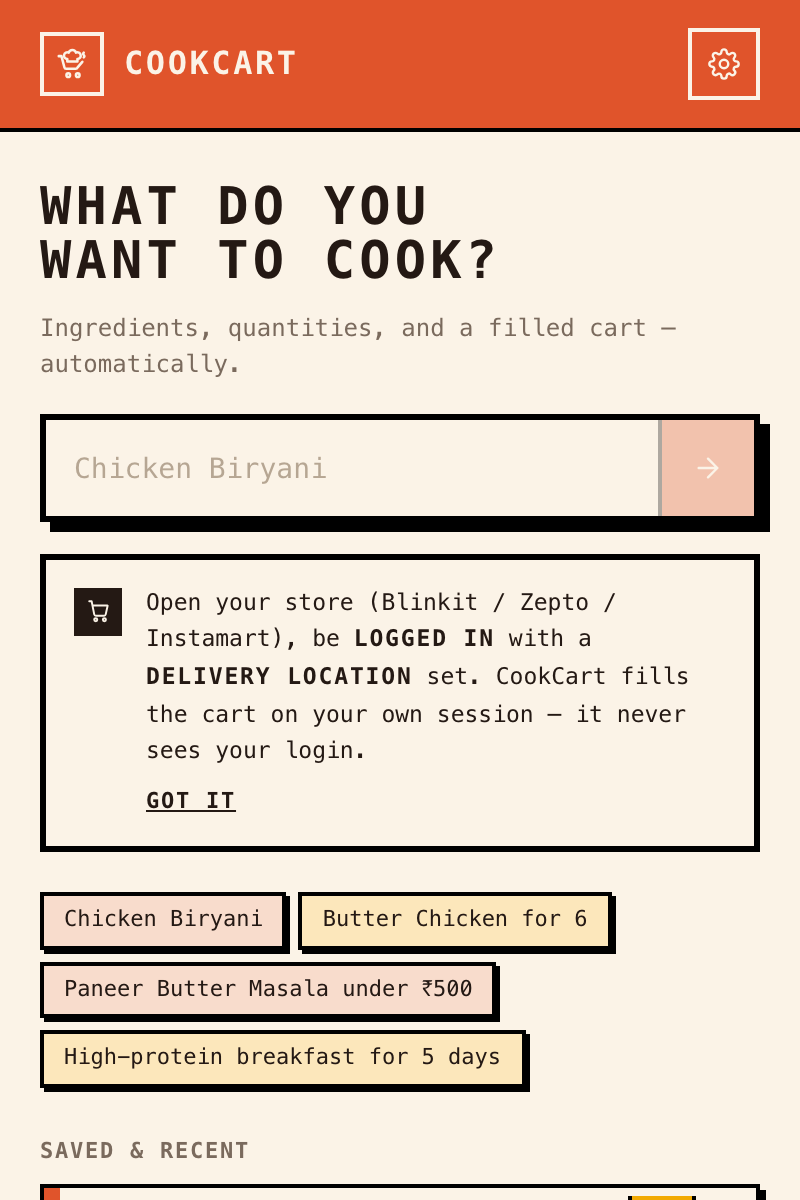
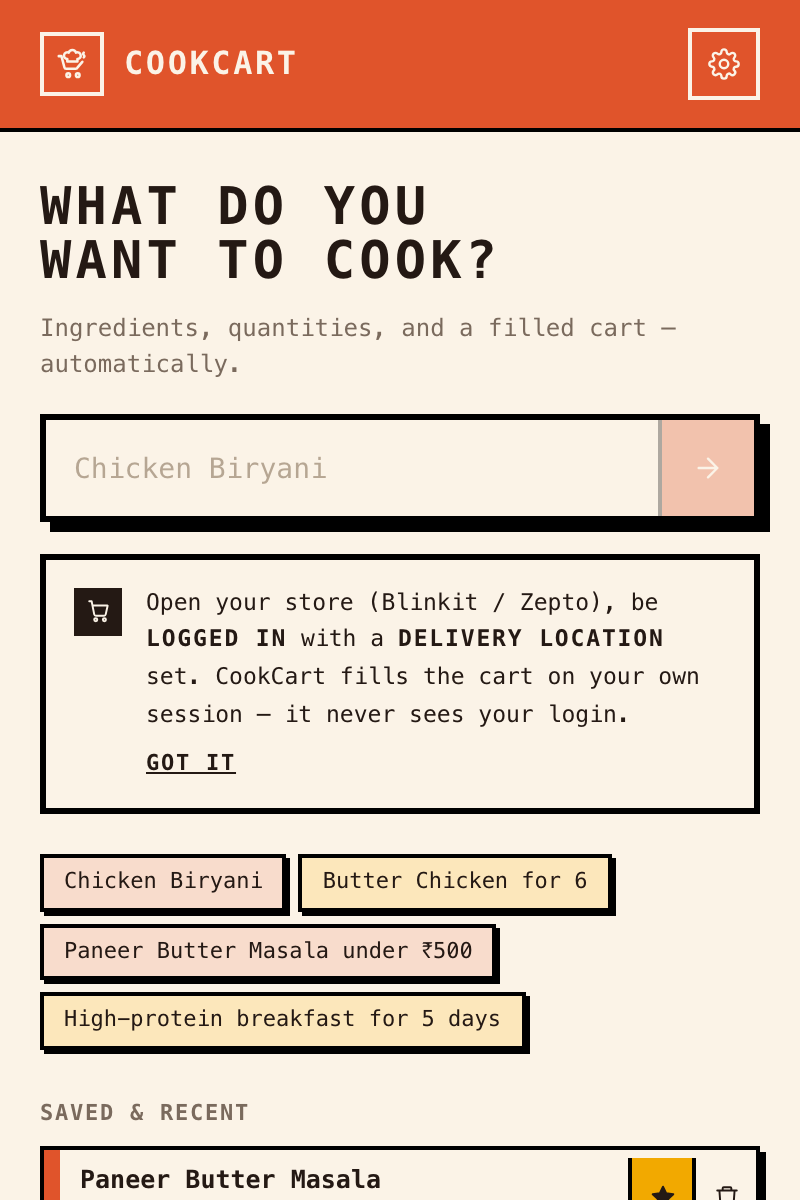
fix: remove Instamart, correctness bugs, UI/UX polish (multi-agent audit)
Ran a 3-agent audit (consistency, correctness, UI/UX). Fixes:

Instamart — fully removed (was wired everywhere but never user-selectable):
ProviderId, PROVIDERS, PROVIDER_URLS, adapter + registry, brand/overlay logo
maps, manifest content_scripts + swiggy host_permission, prompt, package/manifest
description, README table/roadmap/trademark, LICENSE. tsc confirms completeness.

Correctness:
- H1 (wrong product): sold-out filter shifted array positions after the ranker
  assigned cardIndex, so the fast fill could add the wrong item. Extracted
  dropSoldOut() (re-indexes after filtering) + unit test.
- M2 (under-buy): fast fill now uses the ranking engine's unitsToAdd (handles
  eggs/multipacks/count↔mass) instead of a weaker local calc.
- M3: timed-out fast fill is now aborted so it can't write the cart after the
  job fell back to DOM.
- M4: the fast dispatch is now actually gated (no duplicate whole-cart write).
- L10: guard capitalization against empty tokens.

UI/UX:
- removed dead/broken .shimmer; unified the two Zepto purples to #9b5de5
- keyboard focus rings on button primitives
- no-key: submitting/tapping a suggestion routes to Settings instead of erroring
- servings + quantity steppers disable at their bounds
- Progress: 'Plan another dish' → Home; truncate long dish; stable list keys
- budget slider aria-label/valuetext; favorite aria-pressed; empty-list hint

Also fixed the false README claim that the ~1s Blinkit path is verified against
[…]

Changed region(s): [[0.0312, 0.4933, 0.9688, 1.0]]

diff --git a/src/shared/blinkit/parseSearch.test.ts b/src/shared/blinkit/parseSearch.test.ts
@@ -1,0 +1,37 @@
+import { describe, expect, it } from 'vitest'
+import { dropSoldOut, type BlinkitApiProduct } from './parseSearch'
+
+function product(name: string, id: number, soldOut: boolean, cardIndex: number): BlinkitApiProduct {
+  return {
+    name,
+    soldOut,
+    cartItem: { product_id: id, price: 10 },
+    scraped: { name, packText: '', priceInr: 10, cardIndex },
+  }
+}
+
+describe('dropSoldOut', () => {
+  it('keeps cardIndex aligned to array position after removing sold-out items', () => {
+    // A(sold-out), B, C — as returned by parseBlinkitSearch with dense indices.
+    const parsed = [
+      product('A', 1, true, 0),
+      product('B', 2, false, 1),
+      product('C', 3, false, 2),
+    ]
+    const kept = dropSoldOut(parsed)
+
+    expect(kept.map((p) => p.name)).toEqual(['B', 'C'])
+    // Ranking a product then indexing kept[cardIndex] must return that product.
+    kept.forEach((p, i) => {
+      expect(p.scraped.cardIndex).toBe(i)
+      expect(kept[p.scraped.cardIndex]).toBe(p)
+    })
+    // The pick that used to be wrong: choosing "B" (old index 1) must not yield C.
+    const b = kept.find((p) => p.name === 'B')!
+    expect(kept[b.scraped.cardIndex].cartItem.product_id).toBe(2)
+  })
+
+  it('returns an empty array when everything is sold out', () => {
+    expect(dropSoldOut([product('A', 1, true, 0), product('B', 2, true, 1)])).toEqual([])
+  })
+})

diff --git a/src/content/providers/blinkitFast.ts b/src/content/providers/blinkitFast.ts
@@ -1,7 +1,7 @@
 import { chooseBest } from '@/shared/matching'
 import type { Ingredient } from '@/shared/types'
-import { toBase } from '@/shared/units'
 import {
+  dropSoldOut,
   parseBlinkitSearch,
   type BlinkitApiProduct,
   type BlinkitCartItem,
@@ -99,19 +99,7 @@ async function searchProducts(
     return searchProducts(query, headers, attempt + 1)
   }
   if (!res.ok) return []
-  return parseBlinkitSearch(await res.json().catch(() => null)).filter((p) => !p.soldOut)
-}
-
-/** How many packs of the chosen product to cover the recipe quantity. */
-function unitsFor(ingredient: Ingredient, product: BlinkitApiProduct): number {
-  const pack = product.cartItem.unit
-  const packMatch = pack ? /(\d+(?:\.\d+)?)\s*(kg|g|ml|l)\b/i.exec(pack) : null
-  if (!packMatch) return 1
-  const packBase =
-    Number(packMatch[1]) * (/kg|l/i.test(packMatch[2]) ? 1000 : 1)
-  const need = toBase(ingredient.quantity, ingredient.unit)
-  if (need.dimension === 'count' || packBase <= 0) return 1
-  return Math.min(5, Math.max(1, Math.ceil(need.value / packBase)))
+  return dropSoldOut(parseBlinkitSearch(await res.json().catch(() => null)))
 }
 
 export interface FastItem {
@@ -164,7 +152,10 @@ async function chooseAll(items: FastItem[]): Promise<Chosen[]> {
         continue
       }
       const product = products[best.cardIndex]
-      const quantity = unitsFor(ingredient, product)
+      // Use the shared ranking engine's pack math (handles count items like
+      // eggs, multipacks, and count↔mass) so fast (Blinkit) and DOM (Zepto)
+      // fills buy the same quantity for the same recipe.
+      const quantity = Math.max(1, best.unitsToAdd)
       out[index] = {
         quantity,
         cartItem: product.cartItem,
@@ -252,9 +243,16 @@ function writeCart(chosen: Chosen[]): void {
 /**
  * Fill the whole cart. Returns per-item results. Writes localStorage.cart but
  * does NOT reload — the caller reloads so the app hydrates the new cart.
+ *
+ * If `signal` aborts before the write (e.g. the caller's timeout already won
+ * and the job fell back to the DOM flow), we skip the cart write so a
+ * superseded fill can't clobber the cart the fallback is building.
  */
-export async function blinkitFastFill(items: FastItem[]): Promise<FastResult[]> {
+export async function blinkitFastFill(
+  items: FastItem[],
+  signal?: AbortSignal,
+): Promise<FastResult[]> {
   const chosen = await chooseAll(items)
-  writeCart(chosen)
+  if (!signal?.aborted) writeCart(chosen)
   return chosen.map((c) => c.result)
 }

diff --git a/src/popup/screens/Review.tsx b/src/popup/screens/Review.tsx
@@ -7,7 +7,7 @@ import { normalizeIngredient } from '@/shared/normalize'
 import { IconButton, Screen, Toggle } from '../components/ui'
 import { STORE_LOGO } from '../assets/brands'
 
-// Blinkit is the fast, reliable path; Zepto second. (Instamart omitted for now.)
+// Blinkit is the fast, reliable path; Zepto second.
 const FILL_STORES = [PROVIDERS.blinkit, PROVIDERS.zepto]
 import {
   CartIcon,
@@ -93,7 +93,8 @@ function IngredientRow({
       <button
         onClick={() => bump(-1)}
         aria-label="Less"
-        className="grid w-8 flex-none place-items-center border-l-2 border-line hover:bg-wash"
+        disabled={ingredient.quantity - step <= 0}
+        className="grid w-8 flex-none place-items-center border-l-2 border-line hover:bg-wash disabled:opacity-30 disabled:hover:bg-transparent"
       >
         <MinusIcon size={13} />
       </button>
@@ -238,7 +239,8 @@ export function ReviewScreen({
         <button
           onClick={() => setServings(list.servings - 1)}
           aria-label="Fewer servings"
-          className="grid w-10 place-items-center border-l-2 border-line hover:bg-wash"
+          disabled={list.servings <= 1}
+          className="grid w-10 place-items-center border-l-2 border-line hover:bg-wash disabled:opacity-30 disabled:hover:bg-transparent"
         >
           <MinusIcon size={13} />
         </button>
@@ -253,7 +255,8 @@ export function ReviewScreen({
         <button
           onClick={() => setServings(list.servings + 1)}
           aria-label="More servings"
-          className="grid w-10 place-items-center hover:bg-wash"
+          disabled={list.servings >= 50}
+          className="grid w-10 place-items-center hover:bg-wash disabled:opacity-30 disabled:hover:bg-transparent"
         >
           <PlusIcon size={13} />
         </button>
@@ -311,6 +314,11 @@ export function ReviewScreen({
             hint="Skip salt, oil and everyday spices"
           />
         </div>
+        {activeCount === 0 && (
+          <p className="mt-3 text-center text-[11px] leading-relaxed text-mute">
+            Nothing to fill — {settings.skipPantryStaples ? 'turn off “I have the basics” or add' : 'add'} an ingredient above.
+          </p>
+        )}
         <div className="mt-3 grid grid-cols-2 gap-2">
           {FILL_STORES.map((provider) => (
             <motion.button

diff --git a/src/shared/blinkit/parseSearch.ts b/src/shared/blinkit/parseSearch.ts
@@ -48,6 +48,20 @@ function priceFromText(text: string | undefined): number | null {
   return m ? Number(m[1].replace(/,/g, '')) : null
 }
 
+/**
+ * Drop sold-out products and re-number `cardIndex` so it stays equal to the
+ * array position. The ranker returns a `cardIndex` used to index this same
+ * array afterwards, so a stale pre-filter index would select the wrong
+ * product (or an undefined one). Pure + tested.
+ */
+export function dropSoldOut(products: BlinkitApiProduct[]): BlinkitApiProduct[] {
+  const kept = products.filter((p) => !p.soldOut)
+  kept.forEach((p, i) => {
+    p.scraped.cardIndex = i
+  })
+  return kept
+}
+
 /** Parse a /v1/layout/search response into ranked-ready products + cart items. */
 export function parseBlinkitSearch(json: unknown): BlinkitApiProduct[] {
   const snippets = (json as { response?: { snippets?: Snippet[] } })?.response?.snippets

diff --git a/src/background/index.ts b/src/background/index.ts
@@ -69,7 +69,7 @@ async function startFill(
   if (items.length === 0) return { ok: false, reason: 'Nothing to add' }
 
   // Only Blinkit supports the instant one-shot fill (open, unsigned search
-  // API). Zepto/Instamart sign their requests, so they use the DOM flow.
+  // API). Zepto signs its requests, so it uses the DOM flow.
   const mode: FillJob['mode'] = provider === 'blinkit' ? 'fast' : 'stepwise'
 
   const urls = PROVIDER_URLS[provider]
@@ -214,10 +214,12 @@ async function commandForTab(tabId: number | undefined): Promise<ContentCommand>
   // reloads the page after writing the cart, and re-announces here — by then
   // the job is done and it gets JOB_COMPLETE above).
   if (job.mode === 'fast') {
-    if (!job.dispatched) {
-      job.dispatched = true
-      await setActiveJob(job)
-    }
+    // Dispatch the whole-cart write exactly once. A second live announcement
+    // for the same running job (a stray reload that didn't finish the fill)
+    // must not re-run it. The watchdog resets `dispatched` before it retries.
+    if (job.dispatched) return { type: 'IDLE' }
+    job.dispatched = true
+    await setActiveJob(job)
     return runAllCommand(job)
   }
   return runCommand(job)

diff --git a/src/popup/screens/Home.tsx b/src/popup/screens/Home.tsx
@@ -52,7 +52,7 @@ function OnboardingTip() {
           </span>
           <div className="flex-1">
             <p className="text-[11.5px] leading-relaxed text-ink">
-              Open your store (Blinkit / Zepto / Instamart), be{' '}
+              Open your store (Blinkit / Zepto), be{' '}
               <span className="mono-label">logged in</span> with a{' '}
               <span className="mono-label">delivery location</span> set. CookCart fills the cart on
               your own session — it never sees your login.
@@ -107,6 +107,11 @@ export function HomeScreen({
   const submit = (text: string) => {
     const trimmed = text.trim()
     if (!trimmed || generate.isPending) return
+    // No key yet → send them to Settings instead of throwing an AiError.
+    if (!hasKey) {
+      onOpenSettings()
+      return
+    }
     generate.mutate(trimmed)
   }
 
@@ -233,7 +238,7 @@ export function HomeScreen({
                     key={s}
                     onClick={() => {
                       setQuery(s)
-                      if (hasKey) submit(s)
+                      submit(s)
                     }}
                     style={{ boxShadow: '2px 2px 0 #000000' }}
                     className={`border-2 border-line px-2.5 py-1 text-[11px] text-ink transition-colors ${CHIP_COLORS[i % CHIP_COLORS.length]}`}
@@ -269,7 +274,8 @@ export function HomeScreen({
                         </button>
                         <button
                           onClick={() => onToggleFavorite(meal.list.id)}
-                          aria-label="Favorite"
+                          aria-pressed={meal.favorite}
+                          aria-label={meal.favorite ? 'Remove from favorites' : 'Add to favorites'}
                           className={`my-1 grid w-8 place-items-center border-l-2 border-line ${meal.favorite ? 'bg-sun text-ink' : 'hover:bg-sun-soft'}`}
                         >
                           <StarIcon size={13} filled={meal.favorite} />

diff --git a/src/popup/styles.css b/src/popup/styles.css
@@ -19,7 +19,7 @@
   --color-lime-soft: #c9ecd0;
   --color-sky: #e0542b; /* alias of accent (used by summary tiles) */
   --color-sky-soft: #f8dccc;
-  --color-berry: #6d28d9; /* purple — Zepto */
+  --color-berry: #9b5de5; /* purple — Zepto (matches PROVIDERS.zepto.accent) */
   --color-berry-soft: #e4d5fb;
 
   --font-mono: ui-monospace, 'SF Mono', 'JetBrains Mono', 'Roboto Mono', Menlo,
@@ -106,16 +106,6 @@ body {
   text-transform: uppercase;
 }
 
-.shimmer {
-  background: linear-gradient(
-    90deg,
-    var(--color-wash) 25%,
-    #e6e6e3 50%,
-    var(--color-wash) 75%
-  );
-  background-size: 200% 100%;
-  animation: var(--animate-shimmer);
-}
 
 /* range input, brutalist */
 input[type='range'] {

diff --git a/src/shared/providers.ts b/src/shared/providers.ts
@@ -32,17 +32,6 @@ export const PROVIDER_URLS: Record<ProviderId, ProviderUrls> = {
       /^www\.zepto(now)?\.com$/.test(url.hostname) && url.pathname.startsWith('/search'),
     matches: (url) => /^www\.zepto(now)?\.com$/.test(url.hostname),
   },
-  instamart: {
-    id: 'instamart',
-    origin: 'https://www.swiggy.com',
-    searchUrl: (q) =>
-      `https://www.swiggy.com/instamart/search?custom_back=true&query=${encodeURIComponent(q)}`,
-    cartHint: 'Open the cart from the Instamart header to check out.',
-    isSearchPage: (url) =>
-      url.hostname === 'www.swiggy.com' && url.pathname.startsWith('/instamart/search'),
-    matches: (url) =>
-      url.hostname === 'www.swiggy.com' && url.pathname.startsWith('/instamart'),
-  },
 }
 
 export function providerForUrl(url: URL): ProviderUrls | null {

diff --git a/src/content/index.ts b/src/content/index.ts
@@ -58,14 +58,20 @@ async function handleCommand(command: ContentCommand | undefined): Promise<void>
       if (!(await waitForBlinkitReady())) {
         results = skipAll('Open Blinkit and set a delivery location first')
       } else {
+        const abort = new AbortController()
         try {
           results = await Promise.race([
             blinkitFastFill(
               command.items.map((it) => ({ ingredient: it.ingredient, searchQuery: it.searchQuery })),
+              abort.signal,
             ),
             // Generous ceiling so rate-limit retries (up to ~20s/item, bounded
-            // concurrency) complete instead of being cut to "Timed out".
-            sleep(55_000).then(() => skipAll('Timed out')),
+            // concurrency) complete instead of being cut to "Timed out". On
+            // timeout, abort so the loser can't still write the cart.
+            sleep(55_000).then(() => {
+              abort.abort()
+              return skipAll('Timed out')
+            }),
           ])
         } catch {
           results = skipAll('Fill failed')

diff --git a/src/shared/types.ts b/src/shared/types.ts
@@ -52,7 +52,7 @@ export interface ShoppingList {
   createdAt: number
 }
 
-export type ProviderId = 'blinkit' | 'zepto' | 'instamart'
+export type ProviderId = 'blinkit' | 'zepto'
 
 export interface ProviderMeta {
   id: ProviderId
@@ -73,12 +73,6 @@ export const PROVIDERS: Record<ProviderId, ProviderMeta> = {
     label: 'Zepto',
     host: 'www.zeptonow.com',
     accent: '#9b5de5', // purple
-  },
-  instamart: {
-    id: 'instamart',
-    label: 'Instamart',
-    host: 'www.swiggy.com',
-    accent: '#ff6a4d',
   },
 }
 

diff --git a/src/manifest.ts b/src/manifest.ts
@@ -5,7 +5,7 @@ export default defineManifest({
   name: 'CookCart AI',
   version: '0.1.0',
   description:
-    'Type any dish. CookCart AI figures out every ingredient and fills your Blinkit, Zepto or Instamart cart automatically.',
+    'Type any dish. CookCart AI figures out every ingredient and fills your Blinkit or Zepto cart automatically.',
   icons: {
     16: 'icons/icon-16.png',
     32: 'icons/icon-32.png',
@@ -26,8 +26,6 @@ export default defineManifest({
         'https://blinkit.com/*',
         'https://www.zeptonow.com/*',
         'https://www.zepto.com/*',
-        'https://www.swiggy.com/instamart*',
-        'https://www.swiggy.com/instamart/*',
       ],
       js: ['src/content/index.ts'],
       run_at: 'document_idle',
@@ -38,9 +36,6 @@ export default defineManifest({
     'https://blinkit.com/*',
     'https://www.zeptonow.com/*',
     'https://www.zepto.com/*',
-    // MV3 grants host_permissions at host granularity — the /instamart path is
-    // not enforced here (only the content_scripts match above is path-scoped).
-    'https://www.swiggy.com/instamart*',
     'https://generativelanguage.googleapis.com/*',
     'https://api.anthropic.com/*',
     'https://api.openai.com/*',

diff --git a/src/popup/components/ui.tsx b/src/popup/components/ui.tsx
@@ -20,7 +20,7 @@ export function PrimaryButton({
     <motion.button
       {...press}
       style={{ boxShadow: '4px 4px 0 #000000' }}
-      className={`mono-label flex h-12 w-full items-center justify-center gap-2 border-2 border-line bg-accent text-[13px] text-paper disabled:opacity-40 ${className}`}
+      className={`mono-label flex h-12 w-full items-center justify-center gap-2 border-2 border-line bg-accent text-[13px] text-paper focus-visible:outline-2 focus-visible:outline-offset-2 focus-visible:outline-ink disabled:opacity-40 ${className}`}
       {...props}
     >
       {children}
@@ -37,7 +37,7 @@ export function GhostButton({
     <motion.button
       {...press}
       style={{ boxShadow: '4px 4px 0 #000000' }}
-      className={`mono-label flex h-12 w-full items-center justify-center gap-2 border-2 border-line bg-paper text-[13px] text-ink disabled:opacity-40 ${className}`}
+      className={`mono-label flex h-12 w-full items-center justify-center gap-2 border-2 border-line bg-paper text-[13px] text-ink focus-visible:outline-2 focus-visible:outline-offset-2 focus-visible:outline-ink disabled:opacity-40 ${className}`}
       {...props}
     >
       {children}
@@ -52,7 +52,7 @@ export function IconButton({
 }: ButtonHTMLAttributes<HTMLButtonElement> & { children: ReactNode }) {
   return (
     <button
-      className={`grid h-9 w-9 flex-none place-items-center border-2 border-line bg-paper text-ink transition-colors hover:bg-ink hover:text-paper ${className}`}
+      className={`grid h-9 w-9 flex-none place-items-center border-2 border-line bg-paper text-ink transition-colors hover:bg-ink hover:text-paper focus-visible:outline-2 focus-visible:outline-offset-2 focus-visible:outline-ink ${className}`}
       {...props}
     >
       {children}